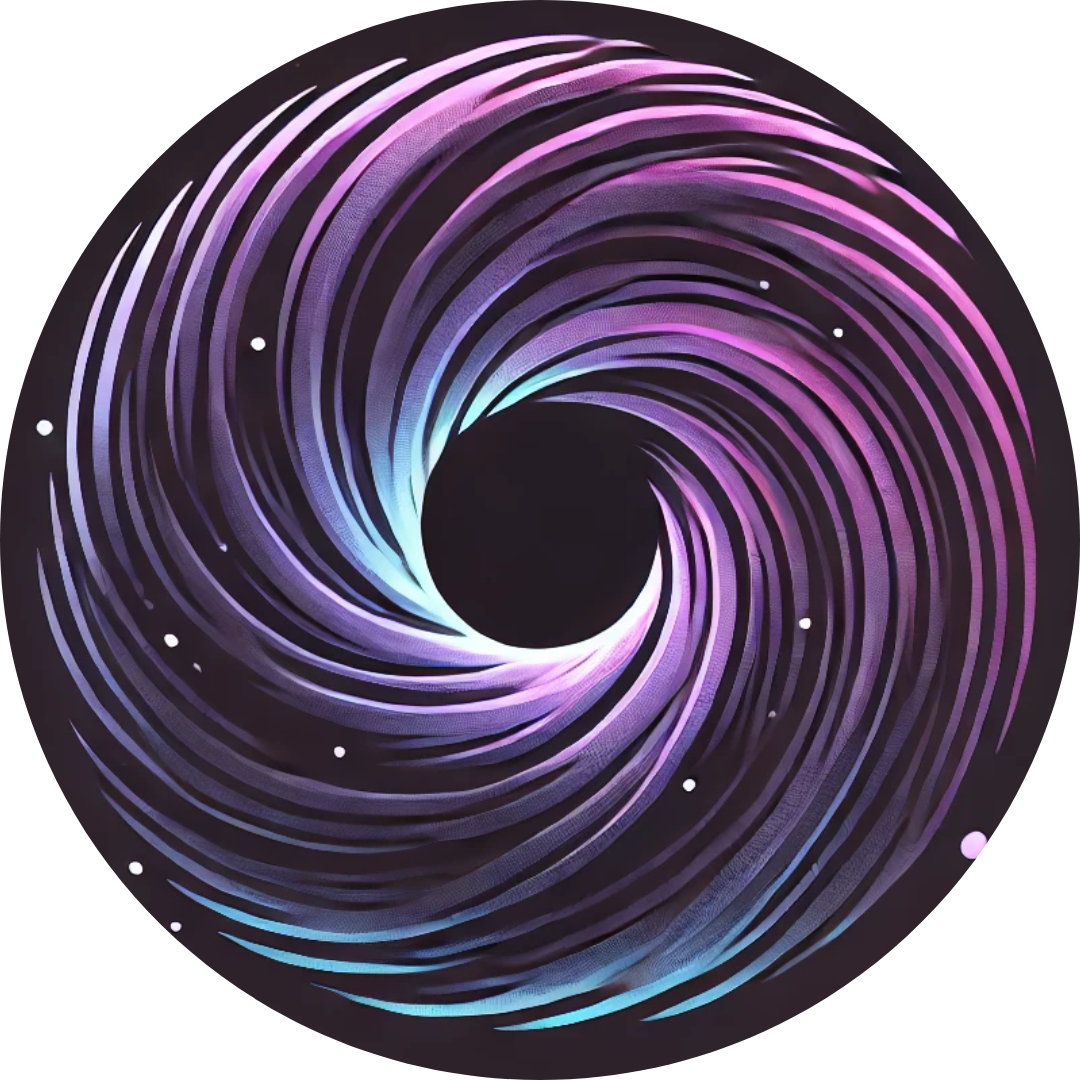
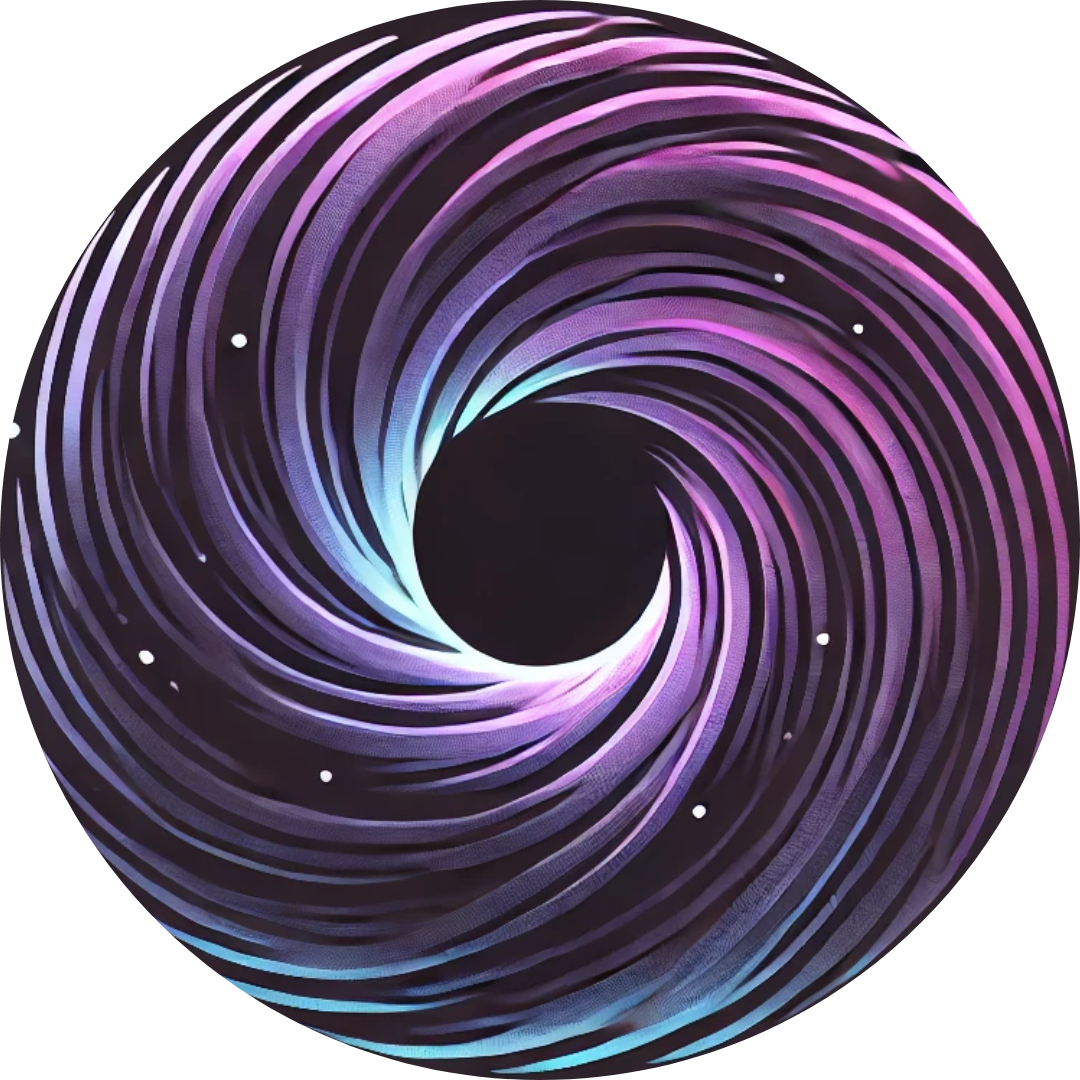
apply colors

diff --git a/packages/app/src/pages/Home/FundOverviewCard.tsx b/packages/app/src/pages/Home/FundOverviewCard.tsx
@@ -76,7 +76,7 @@ export function FundOverviewCard({
             <Line
               type="monotone"
               dataKey="y"
-              stroke={roi < 0 ? customTheme.cyan : customTheme.cyan}
+              stroke={roi < 0 ? customTheme.blue2 : customTheme.blue2}
               strokeWidth={5}
               dot={{
                 r: 0,
@@ -99,7 +99,7 @@ export function FundOverviewCard({
             <Typography
               variant="h2"
               sx={{
-                color: roi < 0 ? customTheme.cyan : customTheme.cyan,
+                color: roi < 0 ? customTheme.blue2 : customTheme.blue2,
               }}
             >
               ${formatNumber(truncateNumber(roi, 2))}
@@ -212,7 +212,7 @@ const TableRow = styled("div")<{
     borderBottomRightRadius: "0",
     borderBottomLeftRadius: "0",
     ...(divider && {
-      borderBottom: `1px solid ${customTheme.grey2}`,
+      borderBottom: `2px solid ${customTheme.grey2}`,
     }),
   }),
 
@@ -220,7 +220,7 @@ const TableRow = styled("div")<{
     borderTopRightRadius: "0",
     borderTopLeftRadius: "0",
     ...(divider && {
-      borderTop: `1px solid ${customTheme.grey2}`,
+      borderTop: `2px solid ${customTheme.grey2}`,
     }),
   }),
 }));

diff --git a/packages/app/src/pages/Home/FundDialog/InvestorStats.tsx b/packages/app/src/pages/Home/FundDialog/InvestorStats.tsx
@@ -138,7 +138,7 @@ export const InvestorStats = observer(
             flexGrow: 1,
             gap: 1,
             p: 1,
-            bgcolor: customTheme.light,
+            bgcolor: customTheme.grey,
           }}
         >
           <Stats client={client} vault={vault} />
@@ -265,15 +265,15 @@ const Stats = observer(
 );
 
 function CopyButton({ text }: { text: string }) {
-  function copy() {
-    navigator.clipboard.writeText(text);
+  async function copy() {
+    await navigator.clipboard.writeText(text);
   }
 
   return (
     <MuiIconButton
       sx={{
         p: 0,
-        color: "inherit",
+        color: customTheme.light,
       }}
       onClick={() => copy()}
     >
@@ -301,10 +301,7 @@ function Container({ children }: { children: ReactNode }) {
 
 function Text({ children }: { children: ReactNode }) {
   return (
-    <Typography
-      variant="body1"
-      sx={{ fontFamily: customTheme.font.titilliumBold }}
-    >
+    <Typography variant="body1" sx={{ color: customTheme.light }}>
       {children}
     </Typography>
   );

diff --git a/packages/app/src/components/Buttons/ActionButton.tsx b/packages/app/src/components/Buttons/ActionButton.tsx
@@ -9,9 +9,9 @@ export function ActionButton(props: ButtonProps) {
   const [color, setColor] = React.useState(customTheme.secondary);
   useEffect(() => {
     if (disabled) {
-      setColor(darken(customTheme.grey2, 0.2));
+      setColor(customTheme.grey);
     } else {
-      setColor(customTheme.secondary);
+      setColor(customTheme.light);
     }
   }, [disabled]);
 
@@ -24,9 +24,16 @@ export function ActionButton(props: ButtonProps) {
         justifyContent: "center",
         alignItems: "center",
         borderRadius: "10px",
-        bgcolor: color,
+
+        bgcolor: disabled
+          ? darken(customTheme.secondary, 0.4)
+          : customTheme.secondary,
+        color,
+
         "&:hover": {
-          bgcolor: darken(color, 0.2),
+          bgcolor: disabled
+            ? customTheme.grey
+            : darken(customTheme.secondary, 0.2),
         },
       }}
       {...props}

diff --git a/packages/app/src/components/Buttons/WalletButton.tsx b/packages/app/src/components/Buttons/WalletButton.tsx
@@ -4,28 +4,21 @@ import { customTheme } from "../../styles";
 import { darken } from "@mui/system/colorManipulator";
 
 const LABELS = {
-  "change-wallet": "Switch Wallet",
+  "change-wallet": "Switch",
   connecting: "Connecting",
   "copy-address": "Copy Address",
   disconnect: "Disconnect",
   "has-wallet": "Connect",
-  "no-wallet": "Select Wallet",
+  "no-wallet": "Connect",
 } as const;
 
 export function WalletButton() {
   return (
     <BaseWalletMultiButton
+      fullWidth
       variant="contained"
       labels={LABELS}
       sx={{
-        width: "100%",
-        height: "100%",
-        // display: "flex",
-        // flexDirection: "row",
-        // justifyContent: "center",
-        // alignItems: "center",
-        fontSize: 20,
-        fontWeight: 600,
         bgcolor: customTheme.secondary,
         borderRadius: "10px",
         "&:hover": {

diff --git a/packages/app/src/styles/theme.ts b/packages/app/src/styles/theme.ts
@@ -2,15 +2,16 @@ import "./globals.css";
 import { createTheme, Theme } from "@mui/material";
 
 export const customTheme = {
-  light: "#edefef",
-  // grey: "#1f1f22",
-  // grey2: "#151517",
+  // light: "#edefef",
+  light: "#e3e3e3",
   grey: "#1d1e22",
   grey2: "#15151a",
   dark: "#0e0907",
 
-  secondary: "#986cb5",
-  cyan: "#7ccedd",
+  // secondary: "#986cb5",
+  secondary: "#674d64",
+  blue: "#bcc8e7",
+  blue2: "#7ccedd",
 
   success: "#38aa28",
   error: "#b62b2b",
@@ -54,7 +55,7 @@ export const theme: Theme = createTheme({
     fontSize: 16,
     h1: {
       fontFamily: customTheme.font.heavy,
-      fontSize: 50,
+      fontSize: 40,
       fontWeight: 700,
       lineHeight: "4rem",
     },

diff --git a/packages/app/src/components/Buttons/IconButton.tsx b/packages/app/src/components/Buttons/IconButton.tsx
@@ -43,12 +43,12 @@ export const IconButton: React.FC<IconButtonProps<React.FC<ChildProps>>> = ({
         alignItems: "center",
         width: "100%",
         height: "100%",
-        fontFamily: customTheme.font.titilliumBold,
+        fontFamily: customTheme.font.light,
 
         bgcolor: disabled
-          ? darken(customTheme.grey2, 0.2)
+          ? darken(customTheme.secondary, 0.4)
           : customTheme.secondary,
-        color: disabled ? customTheme.dark : customTheme.light,
+
         "&:hover": {
           bgcolor: disabled
             ? customTheme.grey

diff --git a/packages/app/src/pages/Home/Funds.tsx b/packages/app/src/pages/Home/Funds.tsx
@@ -58,7 +58,7 @@ export function Funds({ client }: { client: PropShopClient }) {
         }}
       >
         <Typography variant="h1">
-          Earn money while you sleep by letting the gurus trade for you.
+          Build wealth while you sleep by letting the gurus trade for you.
         </Typography>
       </Box>
       <Box

diff --git a/packages/app/src/pages/Home/FundDialog/FundDialog.tsx b/packages/app/src/pages/Home/FundDialog/FundDialog.tsx
@@ -27,7 +27,7 @@ export function FundDialog({
         onClose={onClose}
         PaperProps={{
           style: {
-            background: customTheme.grey2,
+            background: customTheme.grey,
             borderRadius: "10px",
           },
         }}
